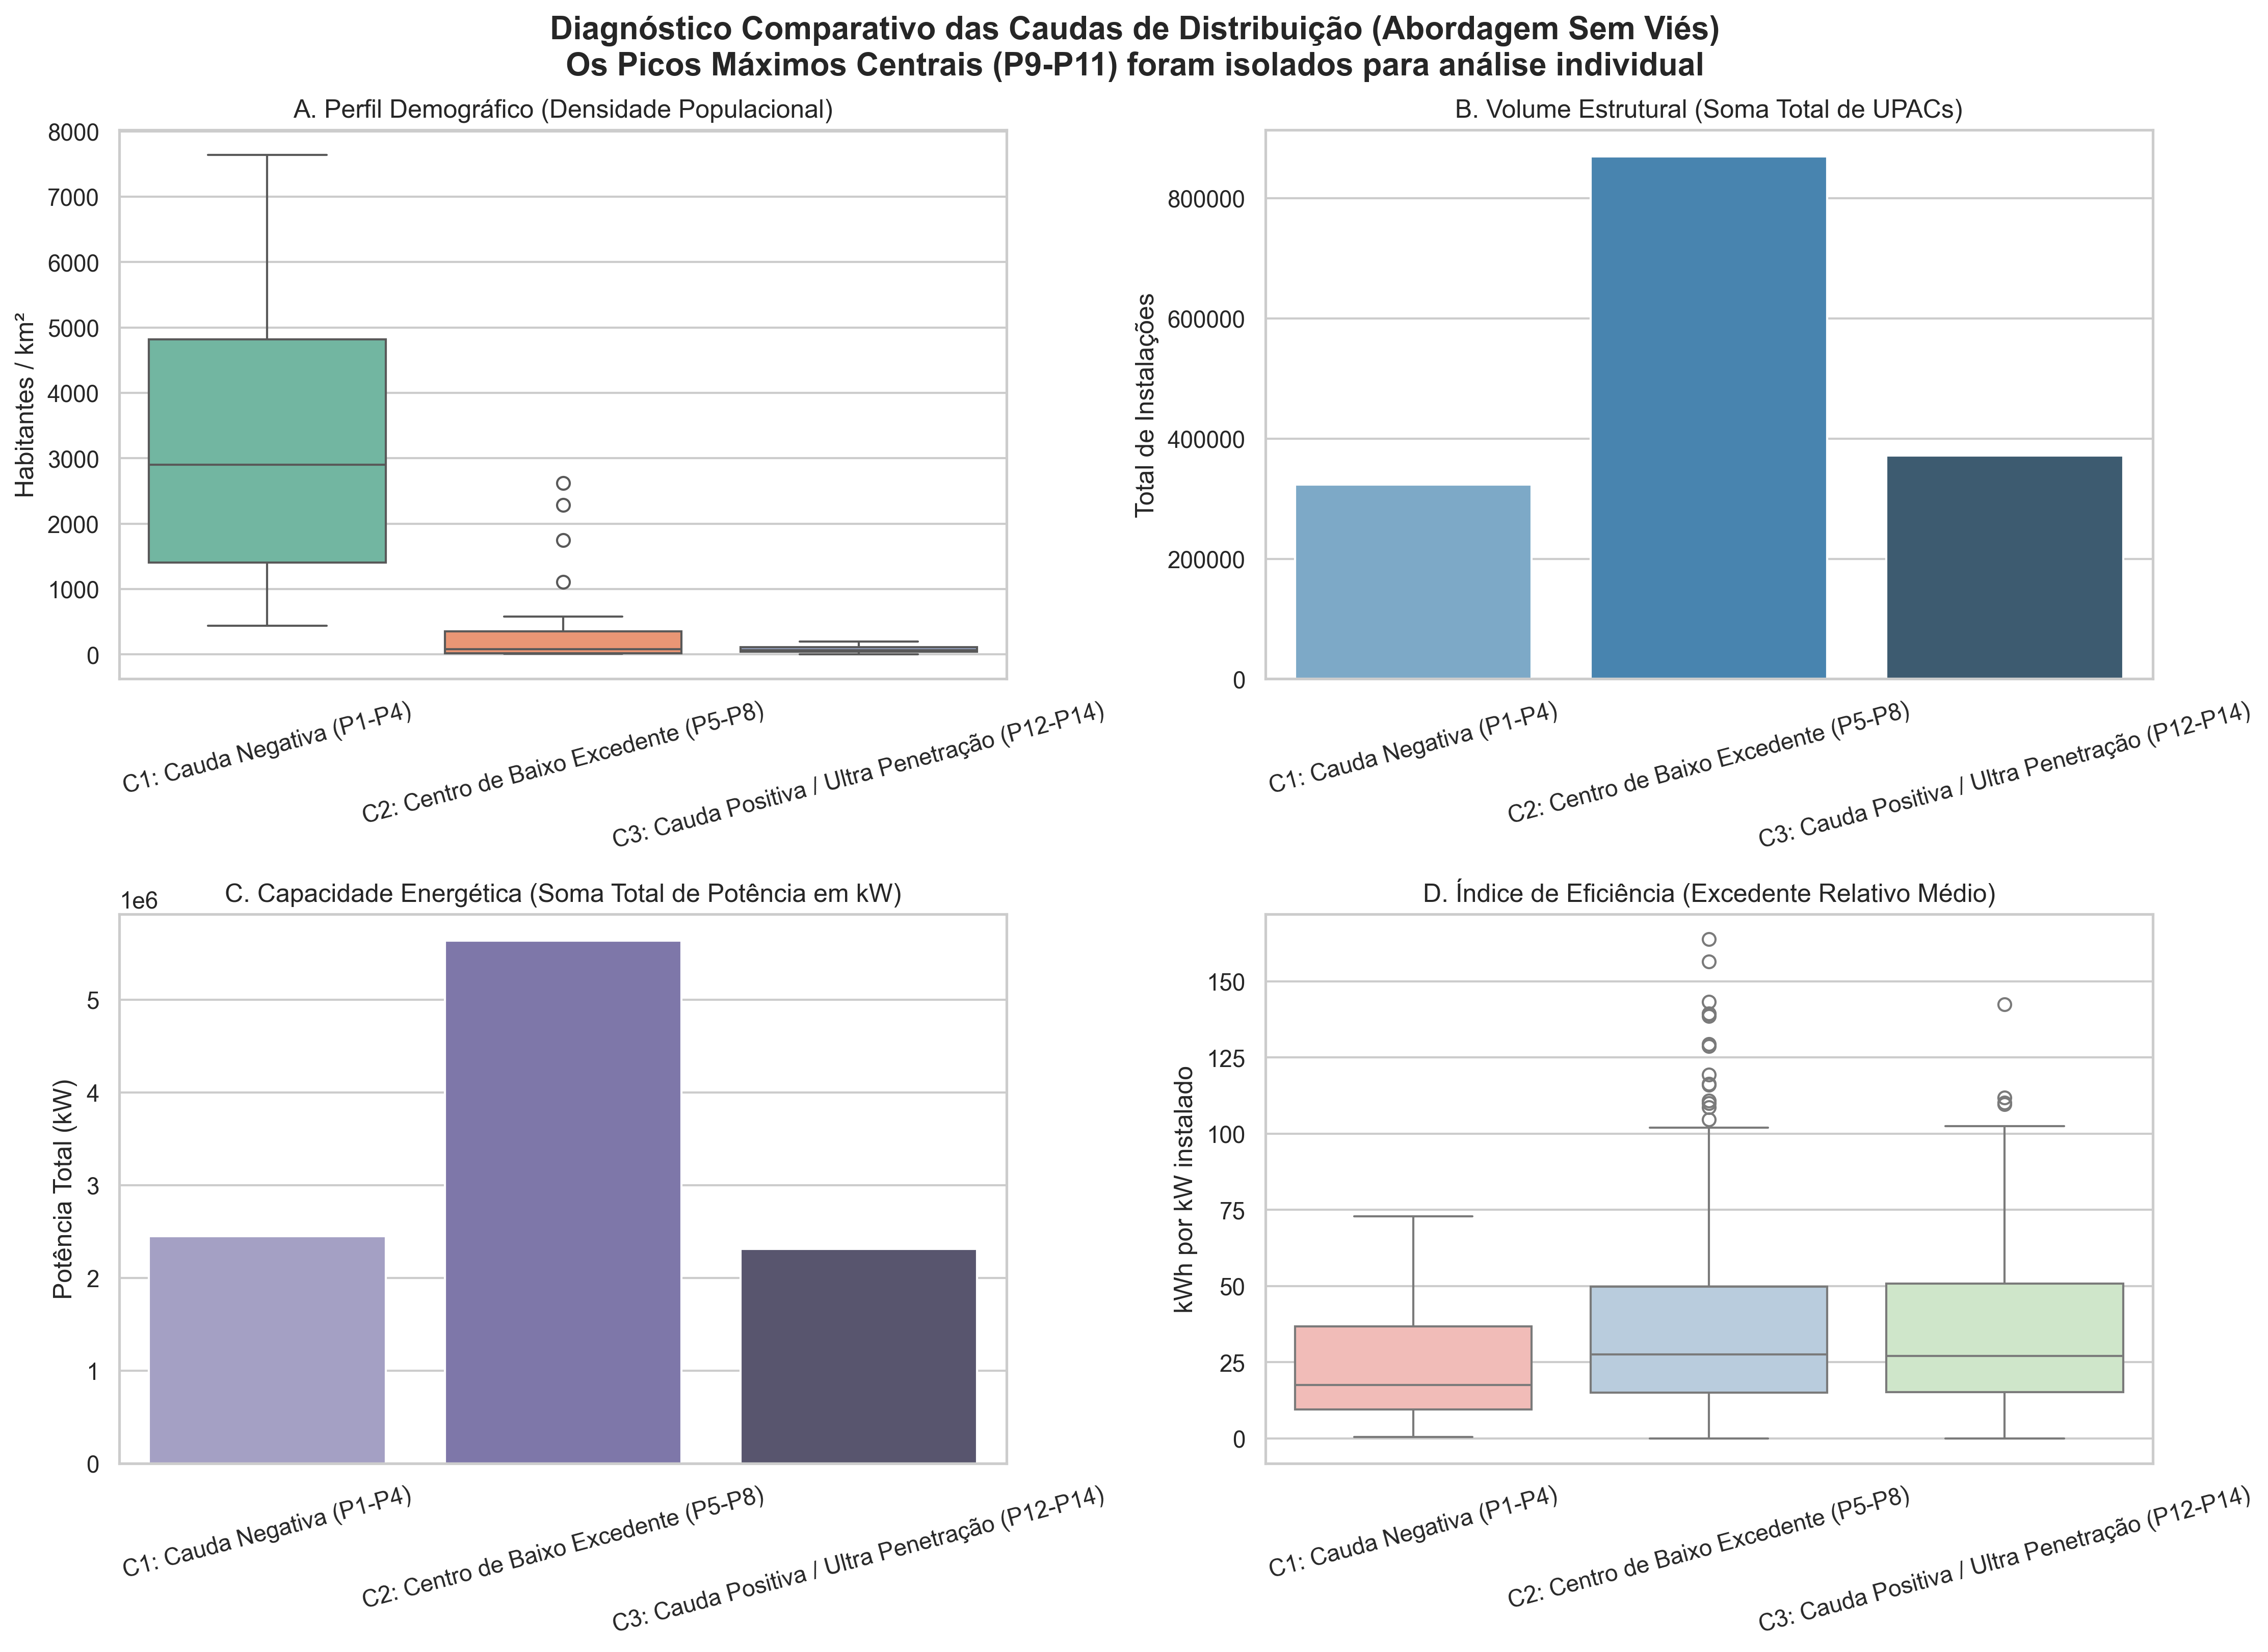
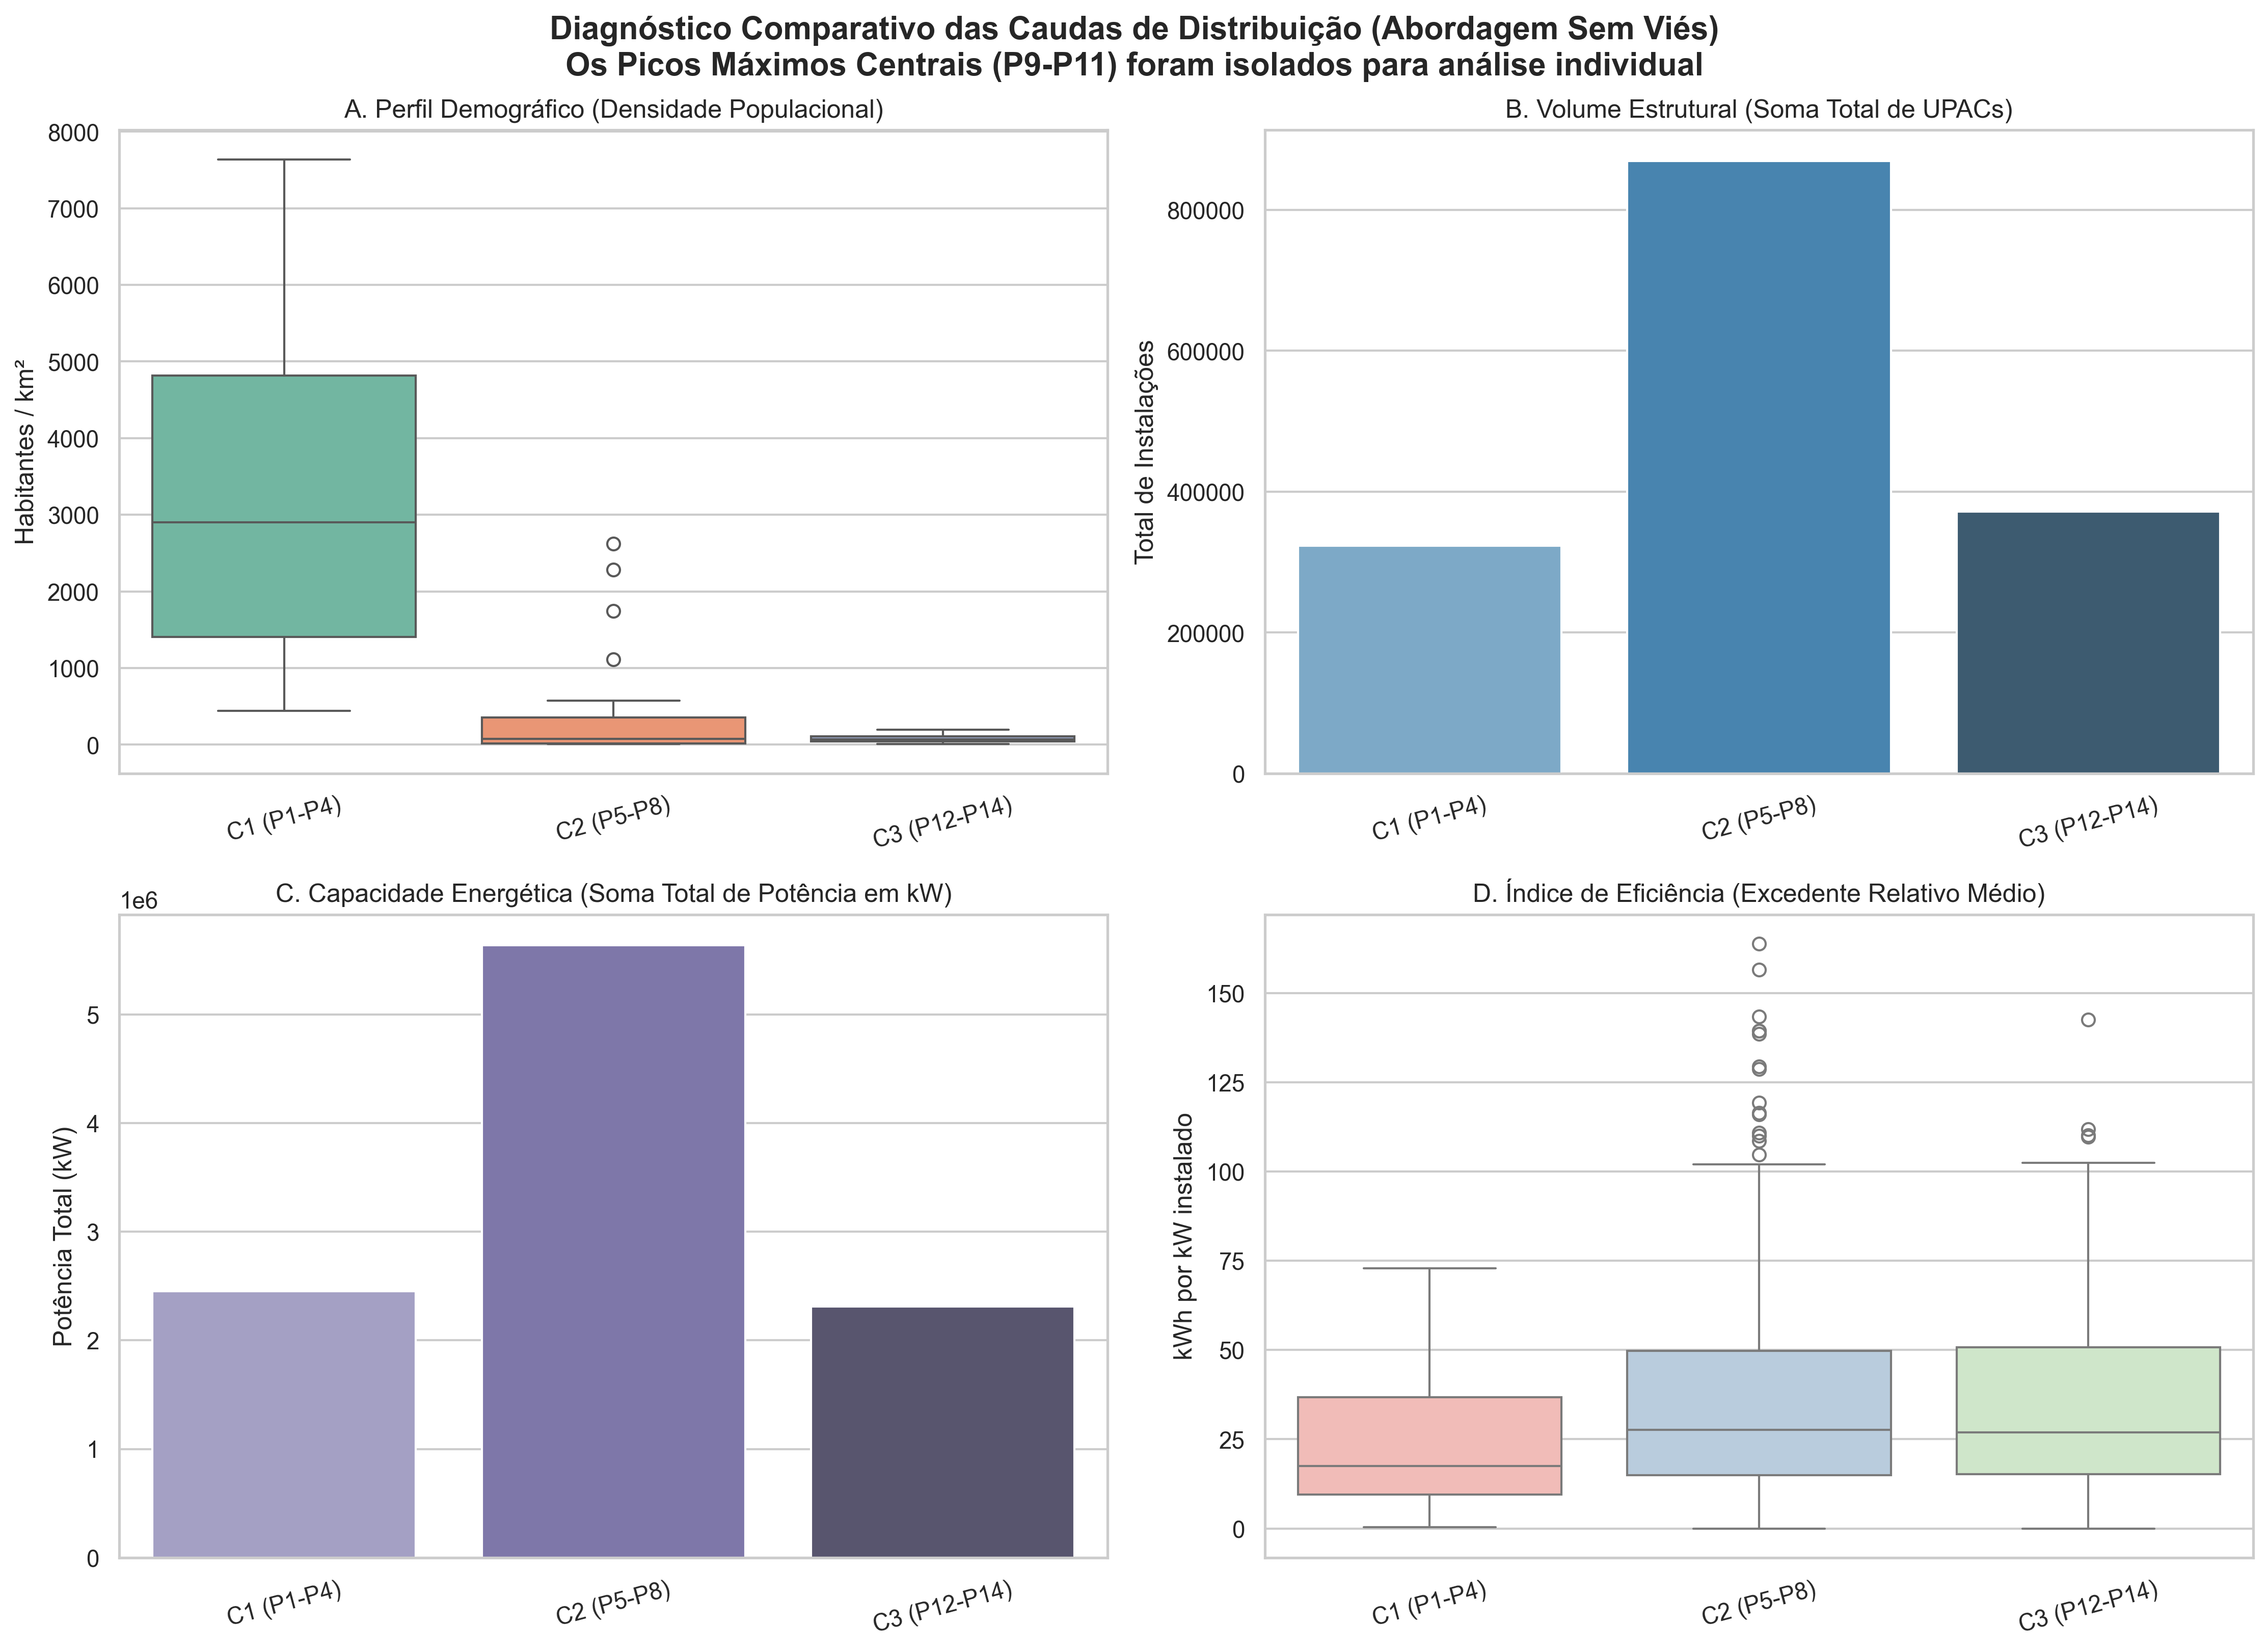
alterar grafs

diff --git a/__graficos__/main.py b/__graficos__/main.py
@@ -4408,14 +4408,134 @@ def graph_80A(folder_path=OUTPUT_DIR):
     print("\n🎯 [Valores Identificados] As seguintes janelas ultrapassam a linha teórica:")
     print(f"{'ID':<4} | {'Intervalo (Min - Max)':<30} | {'Nº Concelhos Nesta Barra':<25}")
     print("-" * 65)
-    for idx, (inf, sup, qtd) in enumerate(valores_detetados):
-        print(f"P{idx+1:<3} | [{inf:.2f} a {sup:.2f}] UPAC/1000 hab.   | {int(qtd)} concelhos")
 
     perfis = {}
-    for i, val in enumerate(valores_detetados):
-        perfis[i+1] = val
+
+    for idx, (inf, sup, qtd) in enumerate(valores_detetados):
+        print(f"P{idx+1:<3} | [{inf:.2f} a {sup:.2f}] UPAC/1000 hab.   | {int(qtd)} concelhos")
+        val = (inf, sup, qtd)
+        perfis[idx+1] = val
         
     return perfis
+
+
+# =========================================================================
+# 80B. MAPEAMENTO DE MACRO-CONJUNTOS (C1, C2, C3) E PICOS MÁXIMOS ISOLADOS
+# =========================================================================
+def graph_80B(folder_path=OUTPUT_DIR):
+    print("\n📊 A gerar Graph 80B (Visualização Estratégica Híbrida - Sem Viés)...")
+    
+    # 1. Configurar o gráfico base
+    fig, ax = plt.subplots(figsize=(14, 7))
+    dados = base_demo["UPAC por 1000 habitantes"].dropna()
+    
+    # Gerar o histograma base
+    n_counts, bins, patches = ax.hist(
+        dados, bins=40, alpha=0.3, color="gray", edgecolor="white", label="Distribuição Geral"
+    )
+    
+    # 2. Calcular e desenhar a curva KDE (Estimativa de Densidade de Kernel)
+    kde = scipy.stats.gaussian_kde(dados)
+    bin_width = bins[1] - bins[0]
+    x_eval = np.linspace(dados.min(), dados.max(), 1000)
+    y_kde_scaled = kde(x_eval) * len(dados) * bin_width
+    
+    ax.plot(x_eval, y_kde_scaled, color="black", linewidth=2, label="Linha de Distribuição (KDE)")
+    
+    # 3. Mapeamento de Cores e Rótulos para a Estratégia Híbrida
+    # Definimos uma paleta de cores académica bem distinguível
+    cor_c1 = "#1f77b4"      # Azul (Cauda Negativa)
+    cor_c2 = "#2ca02c"      # Verde (Massa Central de Baixa Densidade)
+    cor_c3 = "#bcbd22"      # Amarelo/Oliva (Cauda Positiva)
+    cor_picos = "#d62728"   # Vermelho Vivo (Picos Máximos Isolados)
+    
+    perfil_contador = 1
+    offset_y = max(n_counts) * 0.015
+    
+    # Arrays auxiliares para podermos criar uma legenda limpa no final
+    barras_c1, barras_c2, barras_c3, barras_picos = [], [], [], []
+
+    for i in range(len(patches)):
+        bin_centro = (bins[i] + bins[i+1]) / 2
+        kde_altura_no_ponto = np.interp(bin_centro, x_eval, y_kde_scaled)
+        
+        # Apenas analisamos as barras que estão acima do KDE (os perfis identificados)
+        if n_counts[i] > kde_altura_no_ponto:
+            
+            # --- ESTRATÉGIA DE CLASSIFICAÇÃO COM BASE NA POSIÇÃO DO PERFIL ---
+            # P1 a P4 -> C1 (Cauda Negativa)
+            if 1 <= perfil_contador <= 4:
+                patches[i].set_facecolor(cor_c1)
+                patches[i].set_alpha(0.8)
+                rotulo = f"C1\n(P{perfil_contador})"
+                cor_texto = cor_c1
+                barras_c1.append(patches[i])
+                
+            # P5 a P8 -> C2 (Centro de Baixo Excedente)
+            elif 5 <= perfil_contador <= 8:
+                patches[i].set_facecolor(cor_c2)
+                patches[i].set_alpha(0.8)
+                rotulo = f"C2\n(P{perfil_contador})"
+                cor_texto = cor_c2
+                barras_c2.append(patches[i])
+                
+            # P9, P10, P11 -> PICOS MÁXIMOS ISOLADOS (Destaque Vermelho Absoluto)
+            elif 9 <= perfil_contador <= 11:
+                patches[i].set_facecolor(cor_picos)
+                patches[i].set_alpha(0.9)
+                rotulo = f"💥 P{perfil_contador}"  # Emoji ou marcador visual de Pico Máximo
+                cor_texto = "darkred"
+                barras_picos.append(patches[i])
+                
+            # P12 a P14 (ou mais) -> C3 (Cauda Positiva / Ultra Penetração)
+            else:
+                patches[i].set_facecolor(cor_c3)
+                patches[i].set_alpha(0.8)
+                rotulo = f"C3\n(P{perfil_contador})"
+                cor_texto = "darkkhaki"
+                barras_c3.append(patches[i])
+            
+            # Adicionar rótulo descritivo duplo (Macro-grupo + ID do perfil original)
+            ax.text(
+                x=bin_centro,
+                y=n_counts[i] + offset_y,
+                s=rotulo,
+                ha='center',
+                va='bottom',
+                fontsize=8,
+                fontweight='bold',
+                color=cor_texto
+            )
+            
+            perfil_contador += 1
+
+    # 4. Customização das Legendas Académicas
+    # Criamos "proxies" estáveis para a legenda para não duplicar entradas por cada barra individual
+    from matplotlib.patches import Patch
+    legend_elements = [
+        Patch(facecolor="gray", alpha=0.3, edgecolor="white", label="Frequência Base (Sob o KDE)"),
+        Patch(facecolor=cor_c1, alpha=0.8, label="C1: Cauda Negativa (P1-P4)"),
+        Patch(facecolor=cor_c2, alpha=0.8, label="C2: Centro de Baixo Excedente (P5-P8)"),
+        Patch(facecolor=cor_picos, alpha=0.9, label="Picos Máximos Isolados (P9-P11)"),
+        Patch(facecolor=cor_c3, alpha=0.8, label="C3: Cauda Positiva / Ultra Penetração (>=P12)")
+    ]
+    ax.legend(handles=legend_elements, loc="upper right", fontsize=10)
+
+    # 5. Títulos e Métricas de Eixos
+    ax.set_title(
+        "Graph 80B: Mapeamento Estratégico de Macro-Conjuntos e Picos Dominantes\n"
+        "Evidência Visual do Isolamento Metodológico contra Enviesamento de Escala", 
+        fontsize=14, fontweight='bold'
+    )
+    ax.set_xlabel("UPAC por 1000 habitantes", fontsize=11)
+    ax.set_ylabel("Frequência (Número de Concelhos)", fontsize=11)
+    
+    # Folga no topo do eixo Y para os rótulos de texto respirarem
+    ax.set_ylim(0, max(n_counts) * 1.12)
+    
+    path = os.path.join(folder_path, "80B_mapeamento_macro_conjuntos_caudas.png")
+    guardar_grafico(path)
+    print(f"✅ Painel de Diagnóstico 80B exportado com sucesso em: '{path}'")
 
 # =========================
 # 100. ANÁLISE MULTI-VARIÁVEL AUTOMATIZADA PARA N PERFIS ISOLADOS
@@ -4448,7 +4568,7 @@ def graph_100(folder_path=OUTPUT_DIR, perfis=None):
             if len(concelhos_alvo) == 0:
                 continue
                 
-            print(f"   -> Perfil {idx+1}: A processar {len(concelhos_alvo)} concelhos no intervalo [{limite_inf:.2f} a {limite_sup:.2f}]")
+            print(f"   -> Perfil {idx}: A processar {len(concelhos_alvo)} concelhos no intervalo [{limite_inf:.2f} a {limite_sup:.2f}]")
             
             # 2. Filtrar os DataFrames apenas para o grupo deste perfil
             df_demo_alvo = base_demo[base_demo["Concelho"].isin(concelhos_alvo)].copy()
@@ -4553,11 +4673,11 @@ def graph_100_conjuntos(folder_path=OUTPUT_DIR, valores_analise_tuple=None):
         
         num_p = int(p.replace("P", ""))
         if 1 <= num_p <= 4:
-            return "C1: Cauda Negativa (P1-P4)"
+            return "C1 (P1-P4)"
         elif 5 <= num_p <= 8:
-            return "C2: Centro de Baixo Excedente (P5-P8)"
+            return "C2 (P5-P8)"
         elif 12 <= num_p <= 14:
-            return "C3: Cauda Positiva / Ultra Penetração (P12-P14)"
+            return "C3 (P12-P14)"
         
         # P9, P10 e P11 retornam None e ficam fora desta análise agregada
         return None
@@ -4575,9 +4695,9 @@ def graph_100_conjuntos(folder_path=OUTPUT_DIR, valores_analise_tuple=None):
     df_ener_grup = df_ener_grup.dropna(subset=["Macro_Conjunto"])
     
     ordem_grupos = [
-        "C1: Cauda Negativa (P1-P4)", 
-        "C2: Centro de Baixo Excedente (P5-P8)", 
-        "C3: Cauda Positiva / Ultra Penetração (P12-P14)"
+        "C1 (P1-P4)", 
+        "C2 (P5-P8)", 
+        "C3 (P12-P14)"
     ]
 
     if df_demo_grup.empty:
@@ -4646,22 +4766,22 @@ def graph_100_conjuntos(folder_path=OUTPUT_DIR, valores_analise_tuple=None):
 
 
 def main():
-    clean_test_folder(OUTPUT_DIR)
+    # clean_test_folder(OUTPUT_DIR)
 
-    func_excl = ["80A", "100", "100_conjuntos"]
-    for i, func in enumerate(func_excl):
-        func = "graph_" + func
-        func_excl[i] = func
+    # func_excl = ["80A", "80B", "100", "100_conjuntos"]
+    # for i, func in enumerate(func_excl):
+    #     func = "graph_" + func
+    #     func_excl[i] = func
 
-    for func in globals():
-        if func in func_excl: continue
-        elif func.startswith("graph_") and callable(globals()[func]):
-            print(f"Criando gráfico: {func}...")
-            globals()[func]()
+    # for func in globals():
+    #     if func in func_excl: continue
+    #     elif func.startswith("graph_") and callable(globals()[func]):
+    #         print(f"Criando gráfico: {func}...")
+    #         globals()[func]()
 
-    print("\n--------------------------------------------------")
-    print("🎯 Fase Base Concluída. A iniciar Análise de Perfis Avançada...")
-    print("--------------------------------------------------")
+    # print("\n--------------------------------------------------")
+    # print("🎯 Fase Base Concluída. A iniciar Análise de Perfis Avançada...")
+    # print("--------------------------------------------------")
     
     # 3. Executar a sequência analítica correta e controlada no fim
     
@@ -4676,16 +4796,17 @@ def main():
     # Nota: Em Python, os índices 8, 9 e 10 correspondem ao 9º, 10º e 11º elemento (P9, P10, P11)
     if len(vals) >= 11:
         perfis_max = dict([
-            (9, perfis[9]), 
             (10, perfis[10]), 
-            (11, perfis[11])
+            (11, perfis[11]), 
+            (12, perfis[12])
         ])
-        print("\n🔎 A focar inspeção detalhada individual nos picos máximos (P9, P10, P11)...")
+        print("\n🔎 A focar inspeção detalhada individual nos picos máximos (P10, P11, P12)...")
         graph_100(OUTPUT_DIR, perfis=perfis_max)
     else:
         print("\n⚠️ Alerta: Menos de 11 perfis detetados. A correr o graph_100 para todas as barras.")
         graph_100(OUTPUT_DIR, perfis=perfis)
-        
+    
+    graph_80B()
     print("Gráficos criados com sucesso em:", OUTPUT_DIR)
     return 0
 